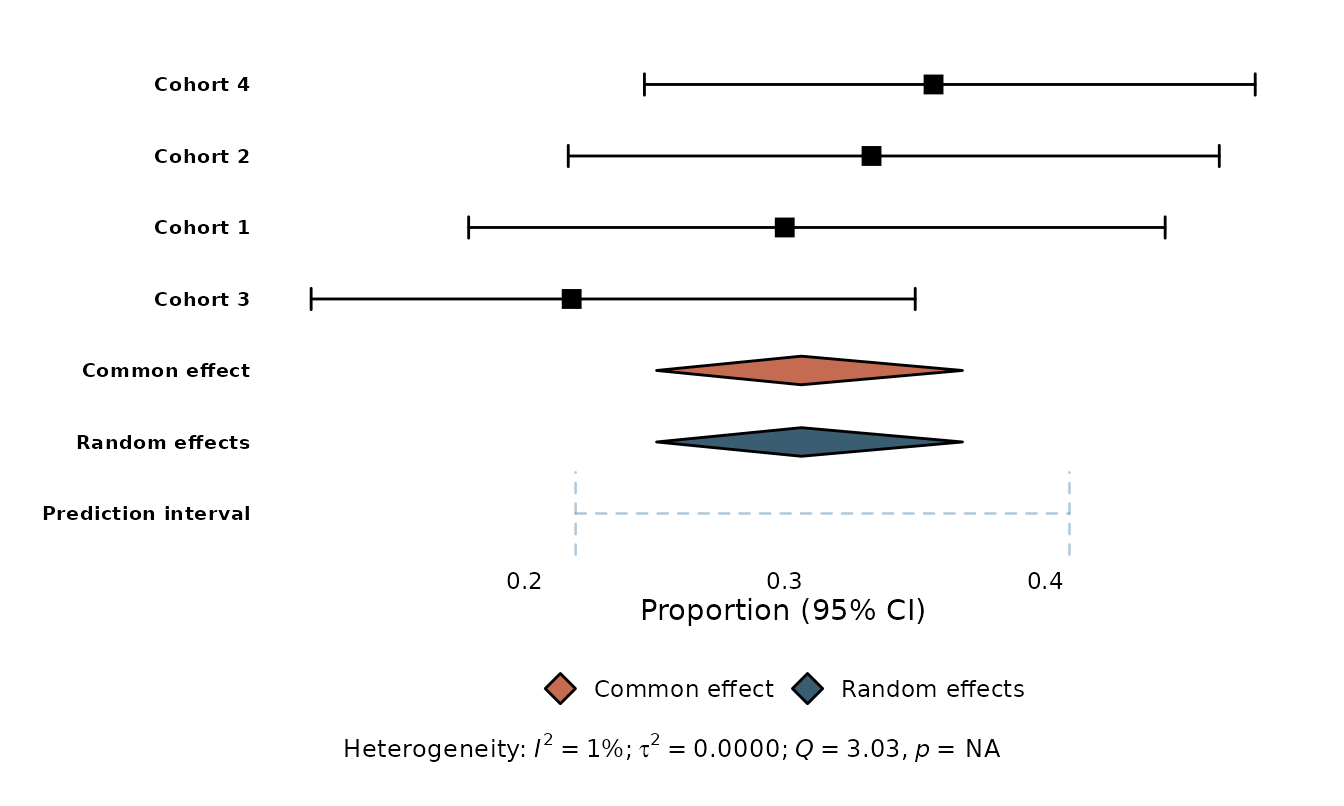
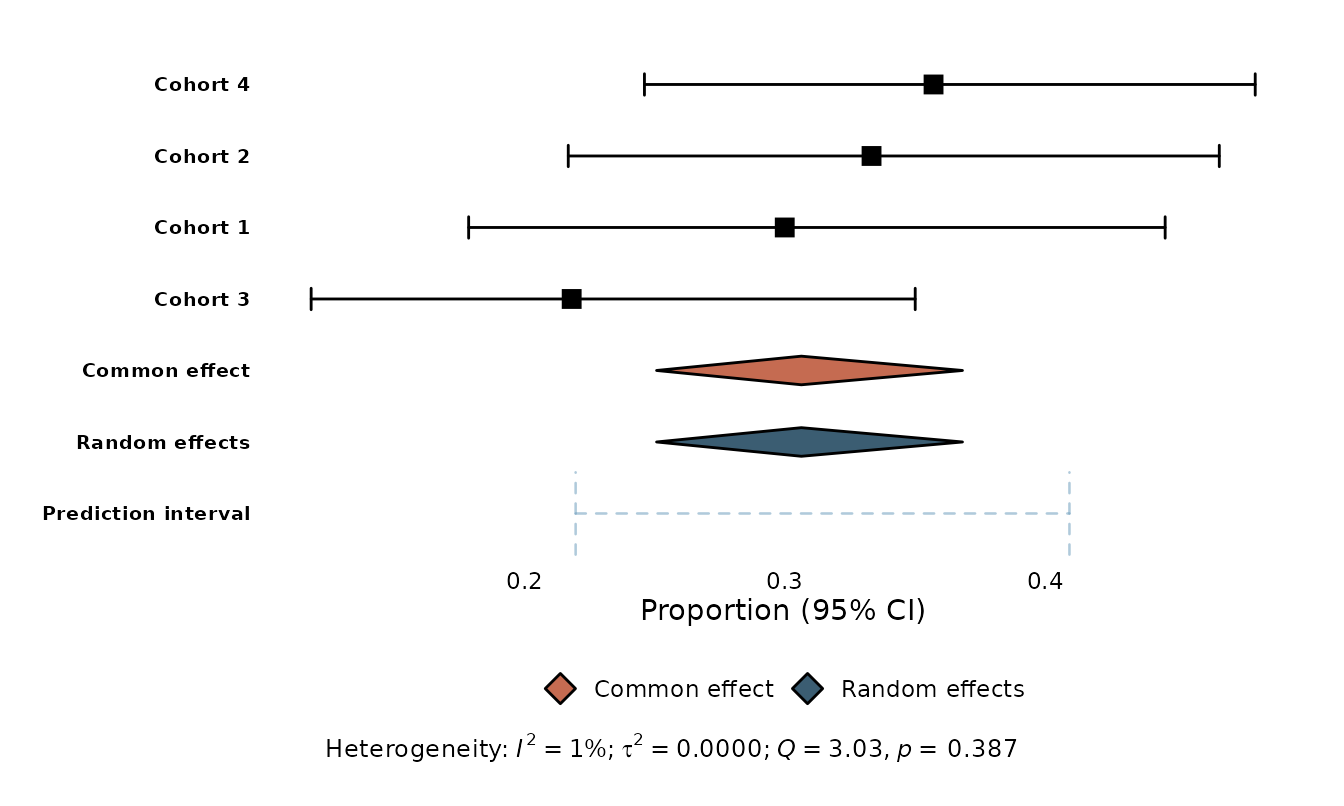
Deploying to gh-pages from @ drhrf/ggmeta@1c462b9244e7e3fba9f21f549e46ae948bfe6c15 🚀

Changed region(s): [[0.25, 0.8995, 0.75, 0.9615]]

diff --git a/news/index.html b/news/index.html
@@ -37,7 +37,8 @@
 <ul><li>Development version. Post-release touches: a package hex-sticker logo and a CRAN status badge in the README.</li>
 </ul><div class="section level3">
 <h3 id="bug-fixes-0-1-0-9000">Bug fixes<a class="anchor" aria-label="anchor" href="#bug-fixes-0-1-0-9000"></a></h3>
-<ul><li>Study estimates of single-group measures are now the observed values, as in <code><a href="https://wviechtb.github.io/metafor/reference/forest.html" class="external-link">meta::forest()</a></code>. <code><a href="https://rdrr.io/pkg/meta/man/metaprop.html" class="external-link">meta::metaprop()</a></code> and <code><a href="https://rdrr.io/pkg/meta/man/metarate.html" class="external-link">meta::metarate()</a></code> store a continuity-corrected <code>TE</code> for studies with zero or all events, so back-transforming it put the point outside its own exact interval: 12 of 12 events was drawn at 0.96 against an upper limit of 1.00. <code><a href="../reference/tidy_meta.html">tidy_meta()</a></code> now uses <code>event / n</code> and <code>event / time</code> for every study of these types, independently of whether a correction was applied. The analysis scale (<code>back_trans = "none"</code>) is unaffected.</li>
+<ul><li>The heterogeneity caption no longer prints <code>p = NA</code> for a generalised linear mixed model. A GLMM tests heterogeneity twice, so <code>meta</code> stores <code>Q</code>, <code>df.Q</code> and <code>pval.Q</code> as a Wald and a likelihood-ratio pair; the whole pair reached the caption, which printed both Q values and lost the p-value. <code><a href="../reference/ggforest.html">ggforest()</a></code> now takes the first element of each, the Wald test, as <code><a href="https://wviechtb.github.io/metafor/reference/forest.html" class="external-link">meta::forest()</a></code> does for its own one-line caption.</li>
+<li>Study estimates of single-group measures are now the observed values, as in <code><a href="https://wviechtb.github.io/metafor/reference/forest.html" class="external-link">meta::forest()</a></code>. <code><a href="https://rdrr.io/pkg/meta/man/metaprop.html" class="external-link">meta::metaprop()</a></code> and <code><a href="https://rdrr.io/pkg/meta/man/metarate.html" class="external-link">meta::metarate()</a></code> store a continuity-corrected <code>TE</code> for studies with zero or all events, so back-transforming it put the point outside its own exact interval: 12 of 12 events was drawn at 0.96 against an upper limit of 1.00. <code><a href="../reference/tidy_meta.html">tidy_meta()</a></code> now uses <code>event / n</code> and <code>event / time</code> for every study of these types, independently of whether a correction was applied. The analysis scale (<code>back_trans = "none"</code>) is unaffected.</li>
 <li>Studies of a generalised linear mixed model (<code>method = "GLMM"</code>) no longer get invented weights. <code>meta</code> leaves <code>w.common</code> and <code>w.random</code> empty for such fits because the model does not weight studies by inverse variance, and <code><a href="https://wviechtb.github.io/metafor/reference/forest.html" class="external-link">meta::forest()</a></code> drops the weight column accordingly; <code><a href="../reference/tidy_meta.html">tidy_meta()</a></code> used to fall back to <code>1 / seTE^2</code>, so <code><a href="../reference/ggforest.html">ggforest()</a></code> printed percentages the model never used. The weight cells are now blank and the squares are equally sized.</li>
 <li>
 <code><a href="../reference/geom_forest_ci.html">geom_forest_ci()</a></code> draws equal, mid-sized squares when no study has a usable weight, instead of shrinking every square to the minimum size. Mixed weights are unaffected: a missing weight alongside usable ones still gets the minimum.</li>

diff --git a/news/index.md b/news/index.md
@@ -7,6 +7,15 @@
 
 ### Bug fixes
 
+- The heterogeneity caption no longer prints `p = NA` for a generalised
+  linear mixed model. A GLMM tests heterogeneity twice, so `meta` stores
+  `Q`, `df.Q` and `pval.Q` as a Wald and a likelihood-ratio pair; the
+  whole pair reached the caption, which printed both Q values and lost
+  the p-value.
+  [`ggforest()`](https://drhrf.github.io/ggmeta/reference/ggforest.md)
+  now takes the first element of each, the Wald test, as
+  [`meta::forest()`](https://wviechtb.github.io/metafor/reference/forest.html)
+  does for its own one-line caption.
 - Study estimates of single-group measures are now the observed values,
   as in
   [`meta::forest()`](https://wviechtb.github.io/metafor/reference/forest.html).
